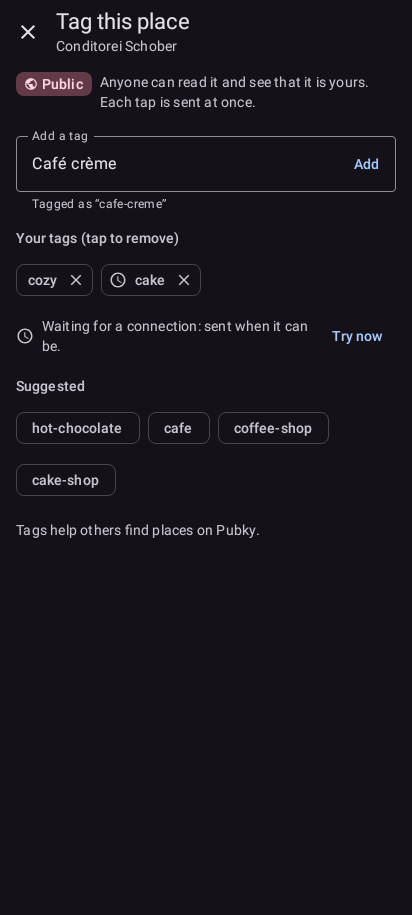
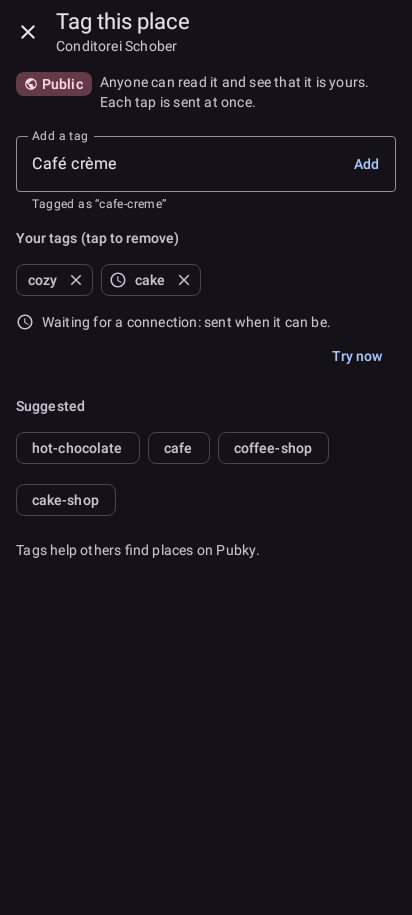
fix(write): Try now goes under the waiting note when they do not fit on one line
On the Tag page the pending legend gave the note only what Try now left: at
200 % font three lines of two words, at the normal phone font an orphan word.
The note now keeps the width and Try now sits under it at the end, beside it
only when the note fits there on one line (tablet).

diff --git a/androidApp/src/test/kotlin/to/pubky/maps/android/TagPagePendingRowTest.kt b/androidApp/src/test/kotlin/to/pubky/maps/android/TagPagePendingRowTest.kt
@@ -1,0 +1,131 @@
+package to.pubky.maps.android
+
+import androidx.compose.runtime.CompositionLocalProvider
+import androidx.compose.ui.platform.LocalDensity
+import androidx.compose.ui.semantics.SemanticsActions
+import androidx.compose.ui.test.assertIsDisplayed
+import androidx.compose.ui.test.getUnclippedBoundsInRoot
+import androidx.compose.ui.test.junit4.createComposeRule
+import androidx.compose.ui.test.onNodeWithText
+import androidx.compose.ui.test.onRoot
+import androidx.compose.ui.test.performClick
+import androidx.compose.ui.text.TextLayoutResult
+import androidx.compose.ui.unit.Density
+import androidx.compose.ui.unit.DpRect
+import androidx.compose.ui.unit.dp
+import org.junit.Assert.assertEquals
+import org.junit.Assert.assertTrue
+import org.junit.Rule
+import org.junit.Test
+import org.junit.runner.RunWith
+import org.robolectric.RobolectricTestRunner
+import org.robolectric.annotation.Config
+import org.robolectric.annotation.GraphicsMode
+import to.pubky.maps.ui.PubkyMapsTheme
+import to.pubky.maps.write.OwnTag
+import to.pubky.maps.write.TagPage
+import to.pubky.maps.write.TagPageState
+import kotlin.math.abs
+
+/**
+ * The tag page's waiting note keeps the page's width and "Try now" goes under it, at the end, when the
+ * note does not fit on one line beside the button (a phone at the normal font and at 200 %); on a
+ * tablet both share one line. Native graphics, so text is measured with real fonts.
+ */
+@RunWith(RobolectricTestRunner::class)
+@GraphicsMode(GraphicsMode.Mode.NATIVE)
+class TagPagePendingRowTest {
+    @get:Rule
+    val compose = createComposeRule()
+
+    private val note = "Waiting for a connection: sent when it can be."
+    private var retries = 0
+
+    private fun show(
+        fontScale: Float,
+        waiting: Boolean = true,
+    ) {
+        compose.setContent {
+            val density = LocalDensity.current
+            CompositionLocalProvider(LocalDensity provides Density(density.density, fontScale = fontScale)) {
+                PubkyMapsTheme {
+                    TagPage(
+                        state =
+                            TagPageState(
+                                placeName = "Conditorei Schober",
+                                mine = listOf(OwnTag("https://www.openstreetmap.org/node/1", "cake", pending = true)),
+                                suggestions = emptyList(),
+                                waiting = waiting,
+                            ),
+                        onTextChange = {},
+                        onAdd = {},
+                        onRemove = {},
+                        onRetry = { retries++ },
+                        onClose = {},
+                    )
+                }
+            }
+        }
+    }
+
+    private fun lines(text: String): Int {
+        val layouts = mutableListOf<TextLayoutResult>()
+        compose
+            .onNodeWithText(text, useUnmergedTree = true)
+            .fetchSemanticsNode()
+            .config[SemanticsActions.GetTextLayoutResult]
+            .action
+            ?.invoke(layouts)
+        return layouts.single().lineCount
+    }
+
+    private fun bounds(text: String): DpRect = compose.onNodeWithText(text, useUnmergedTree = true).getUnclippedBoundsInRoot()
+
+    private fun assertTryNowUnderTheNote() {
+        val noteBounds = bounds(note)
+        val button = bounds("Try now")
+        val pageEnd = compose.onRoot().getUnclippedBoundsInRoot().right - 16.dp
+        assertTrue("Try now (top ${button.top}) is under the note (bottom ${noteBounds.bottom})", button.top >= noteBounds.bottom)
+        // The label sits inside the TextButton's 12 dp padding, so its end is that far from the page's edge.
+        assertTrue("Try now ends at the page's end (${button.right} vs $pageEnd)", abs((pageEnd - 12.dp - button.right).value) <= 1f)
+    }
+
+    @Test
+    @Config(qualifiers = "w412dp-h915dp")
+    fun atLargeFontTryNowGoesUnderTheNoteAndTheNoteKeepsTheWidth() {
+        show(fontScale = 2f)
+        assertTryNowUnderTheNote()
+        // Beside the button the note would get three lines of two words ('Waiting for a / connection: sent / when it can be.').
+        assertTrue("the note takes at most 2 lines, took ${lines(note)}", lines(note) <= 2)
+        assertEquals(1, lines("Try now"))
+    }
+
+    @Test
+    @Config(qualifiers = "w412dp-h915dp")
+    fun atTheNormalFontOnAPhoneTheNoteStaysOnOneLine() {
+        show(fontScale = 1f)
+        assertEquals(1, lines(note))
+        assertTryNowUnderTheNote()
+        compose.onNodeWithText("Try now").assertIsDisplayed().performClick()
+        assertEquals(1, retries)
+    }
+
+    @Test
+    @Config(qualifiers = "w1280dp-h800dp")
+    fun onATabletTheNoteAndTryNowShareOneLine() {
+        show(fontScale = 1f)
+        assertEquals(1, lines(note))
+        val noteBounds = bounds(note)
+        val button = bounds("Try now")
+        assertTrue("Try now is beside the note", button.left >= noteBounds.right)
+        assertTrue("Try now is on the note's line", button.top < noteBounds.bottom && button.bottom > noteBounds.top)
+    }
+
+    @Test
+    @Config(qualifiers = "w412dp-h915dp")
+    fun whileSendingThereIsNoButton() {
+        show(fontScale = 2f, waiting = false)
+        compose.onNodeWithText("Sending…", useUnmergedTree = true).assertIsDisplayed()
+        compose.onNodeWithText("Try now").assertDoesNotExist()
+    }
+}

diff --git a/shared/src/commonMain/kotlin/to/pubky/maps/write/TagPage.kt b/shared/src/commonMain/kotlin/to/pubky/maps/write/TagPage.kt
@@ -22,10 +22,14 @@ import androidx.compose.material3.TextButton
 import androidx.compose.runtime.Composable
 import androidx.compose.ui.Alignment
 import androidx.compose.ui.Modifier
+import androidx.compose.ui.layout.Layout
 import androidx.compose.ui.semantics.contentDescription
 import androidx.compose.ui.semantics.semantics
 import androidx.compose.ui.text.input.ImeAction
 import androidx.compose.ui.text.input.KeyboardCapitalization
+import androidx.compose.ui.unit.Constraints
+import androidx.compose.ui.unit.constrainHeight
+import androidx.compose.ui.unit.constrainWidth
 import androidx.compose.ui.unit.dp
 import to.pubky.maps.ui.AppIcons
 
@@ -146,25 +150,69 @@ fun TagPage(
     }
 }
 
-/** What the clock on a tag means, and a way to try again now when the writes wait. */
+/**
+ * What the clock on a tag means, and a way to try again now when the writes wait. Try now sits beside
+ * the note when the note fits on one line beside it, else under it at the end: squeezed beside a
+ * wrapped note, the note gets a narrow column (at 200 % font three lines of two words; at the normal
+ * phone font one word alone on its second line). Under the note at the end is where Material's
+ * banners and snackbars put an action that does not fit beside long text.
+ */
 @Composable
 private fun PendingLegend(
     waiting: Boolean,
     busy: Boolean,
     onRetry: () -> Unit,
 ) {
-    Row(verticalAlignment = Alignment.CenterVertically) {
-        Icon(
-            WriteIcons.Pending,
-            contentDescription = null,
-            tint = MaterialTheme.colorScheme.onSurfaceVariant,
-            modifier = Modifier.size(18.dp),
-        )
-        Spacer(Modifier.width(8.dp))
-        NoteText(
-            if (waiting) "${pendingText(true, busy)}: sent when it can be." else "Sending…",
-            Modifier.weight(1f),
-        )
-        if (waiting) TextButton(onClick = onRetry) { Text("Try now") }
+    NoteWithAction(
+        note = {
+            Row(verticalAlignment = Alignment.CenterVertically) {
+                Icon(
+                    WriteIcons.Pending,
+                    contentDescription = null,
+                    tint = MaterialTheme.colorScheme.onSurfaceVariant,
+                    modifier = Modifier.size(18.dp),
+                )
+                Spacer(Modifier.width(8.dp))
+                NoteText(if (waiting) "${pendingText(true, busy)}: sent when it can be." else "Sending…")
+            }
+        },
+        action = if (waiting) ({ TextButton(onClick = onRetry) { Text("Try now") } }) else null,
+    )
+}
+
+/**
+ * [note] and, when there is one, [action] on one line if the note fits there on a single line (its
+ * widest, unwrapped width), else the note on the whole width and the action under it at the end.
+ * Both are centred on the line they share.
+ */
+@Composable
+private fun NoteWithAction(
+    note: @Composable () -> Unit,
+    action: (@Composable () -> Unit)?,
+    modifier: Modifier = Modifier,
+) {
+    Layout(
+        contents = listOf(note, action ?: {}),
+        modifier = modifier,
+    ) { (noteParts, actionParts), constraints ->
+        val actionPlaceable = actionParts.firstOrNull()?.measure(constraints.copy(minWidth = 0, minHeight = 0))
+        val actionWidth = actionPlaceable?.width ?: 0
+        val notePart = noteParts.single()
+        val oneLine = notePart.maxIntrinsicWidth(Constraints.Infinity) + actionWidth
+        val width = if (constraints.hasBoundedWidth) constraints.maxWidth else constraints.constrainWidth(oneLine)
+        val beside = actionPlaceable == null || oneLine <= width
+        val notePlaceable = notePart.measure(Constraints(maxWidth = (if (beside) width - actionWidth else width).coerceAtLeast(0)))
+        val actionHeight = actionPlaceable?.height ?: 0
+        val contentHeight = if (beside) maxOf(notePlaceable.height, actionHeight) else notePlaceable.height + actionHeight
+        val height = constraints.constrainHeight(contentHeight)
+        layout(width, height) {
+            if (beside) {
+                notePlaceable.placeRelative(0, (height - notePlaceable.height) / 2)
+                actionPlaceable?.placeRelative(width - actionWidth, (height - actionHeight) / 2)
+            } else {
+                notePlaceable.placeRelative(0, 0)
+                actionPlaceable.placeRelative(width - actionWidth, notePlaceable.height)
+            }
+        }
     }
 }

diff --git a/androidApp/src/test/kotlin/to/pubky/maps/android/WriteScreenshotTest.kt b/androidApp/src/test/kotlin/to/pubky/maps/android/WriteScreenshotTest.kt
@@ -312,6 +312,13 @@ class WriteScreenshotTest {
     @Test
     fun tagPageTabletDark() = capture("write-tag", Device.Tablet, dark = true) { TagPageShot() }
 
+    /** At the largest font size (200 %) "Try now" goes under the waiting note, which keeps the whole width. */
+    @Test
+    fun tagPageLargeFontPhoneLight() = capture("write-tag", Device.Phone, dark = false, largeFont = true) { TagPageShot() }
+
+    @Test
+    fun tagPageLargeFontPhoneDark() = capture("write-tag", Device.Phone, dark = true, largeFont = true) { TagPageShot() }
+
     @Composable
     private fun PostPageShot() {
         PostPage(
